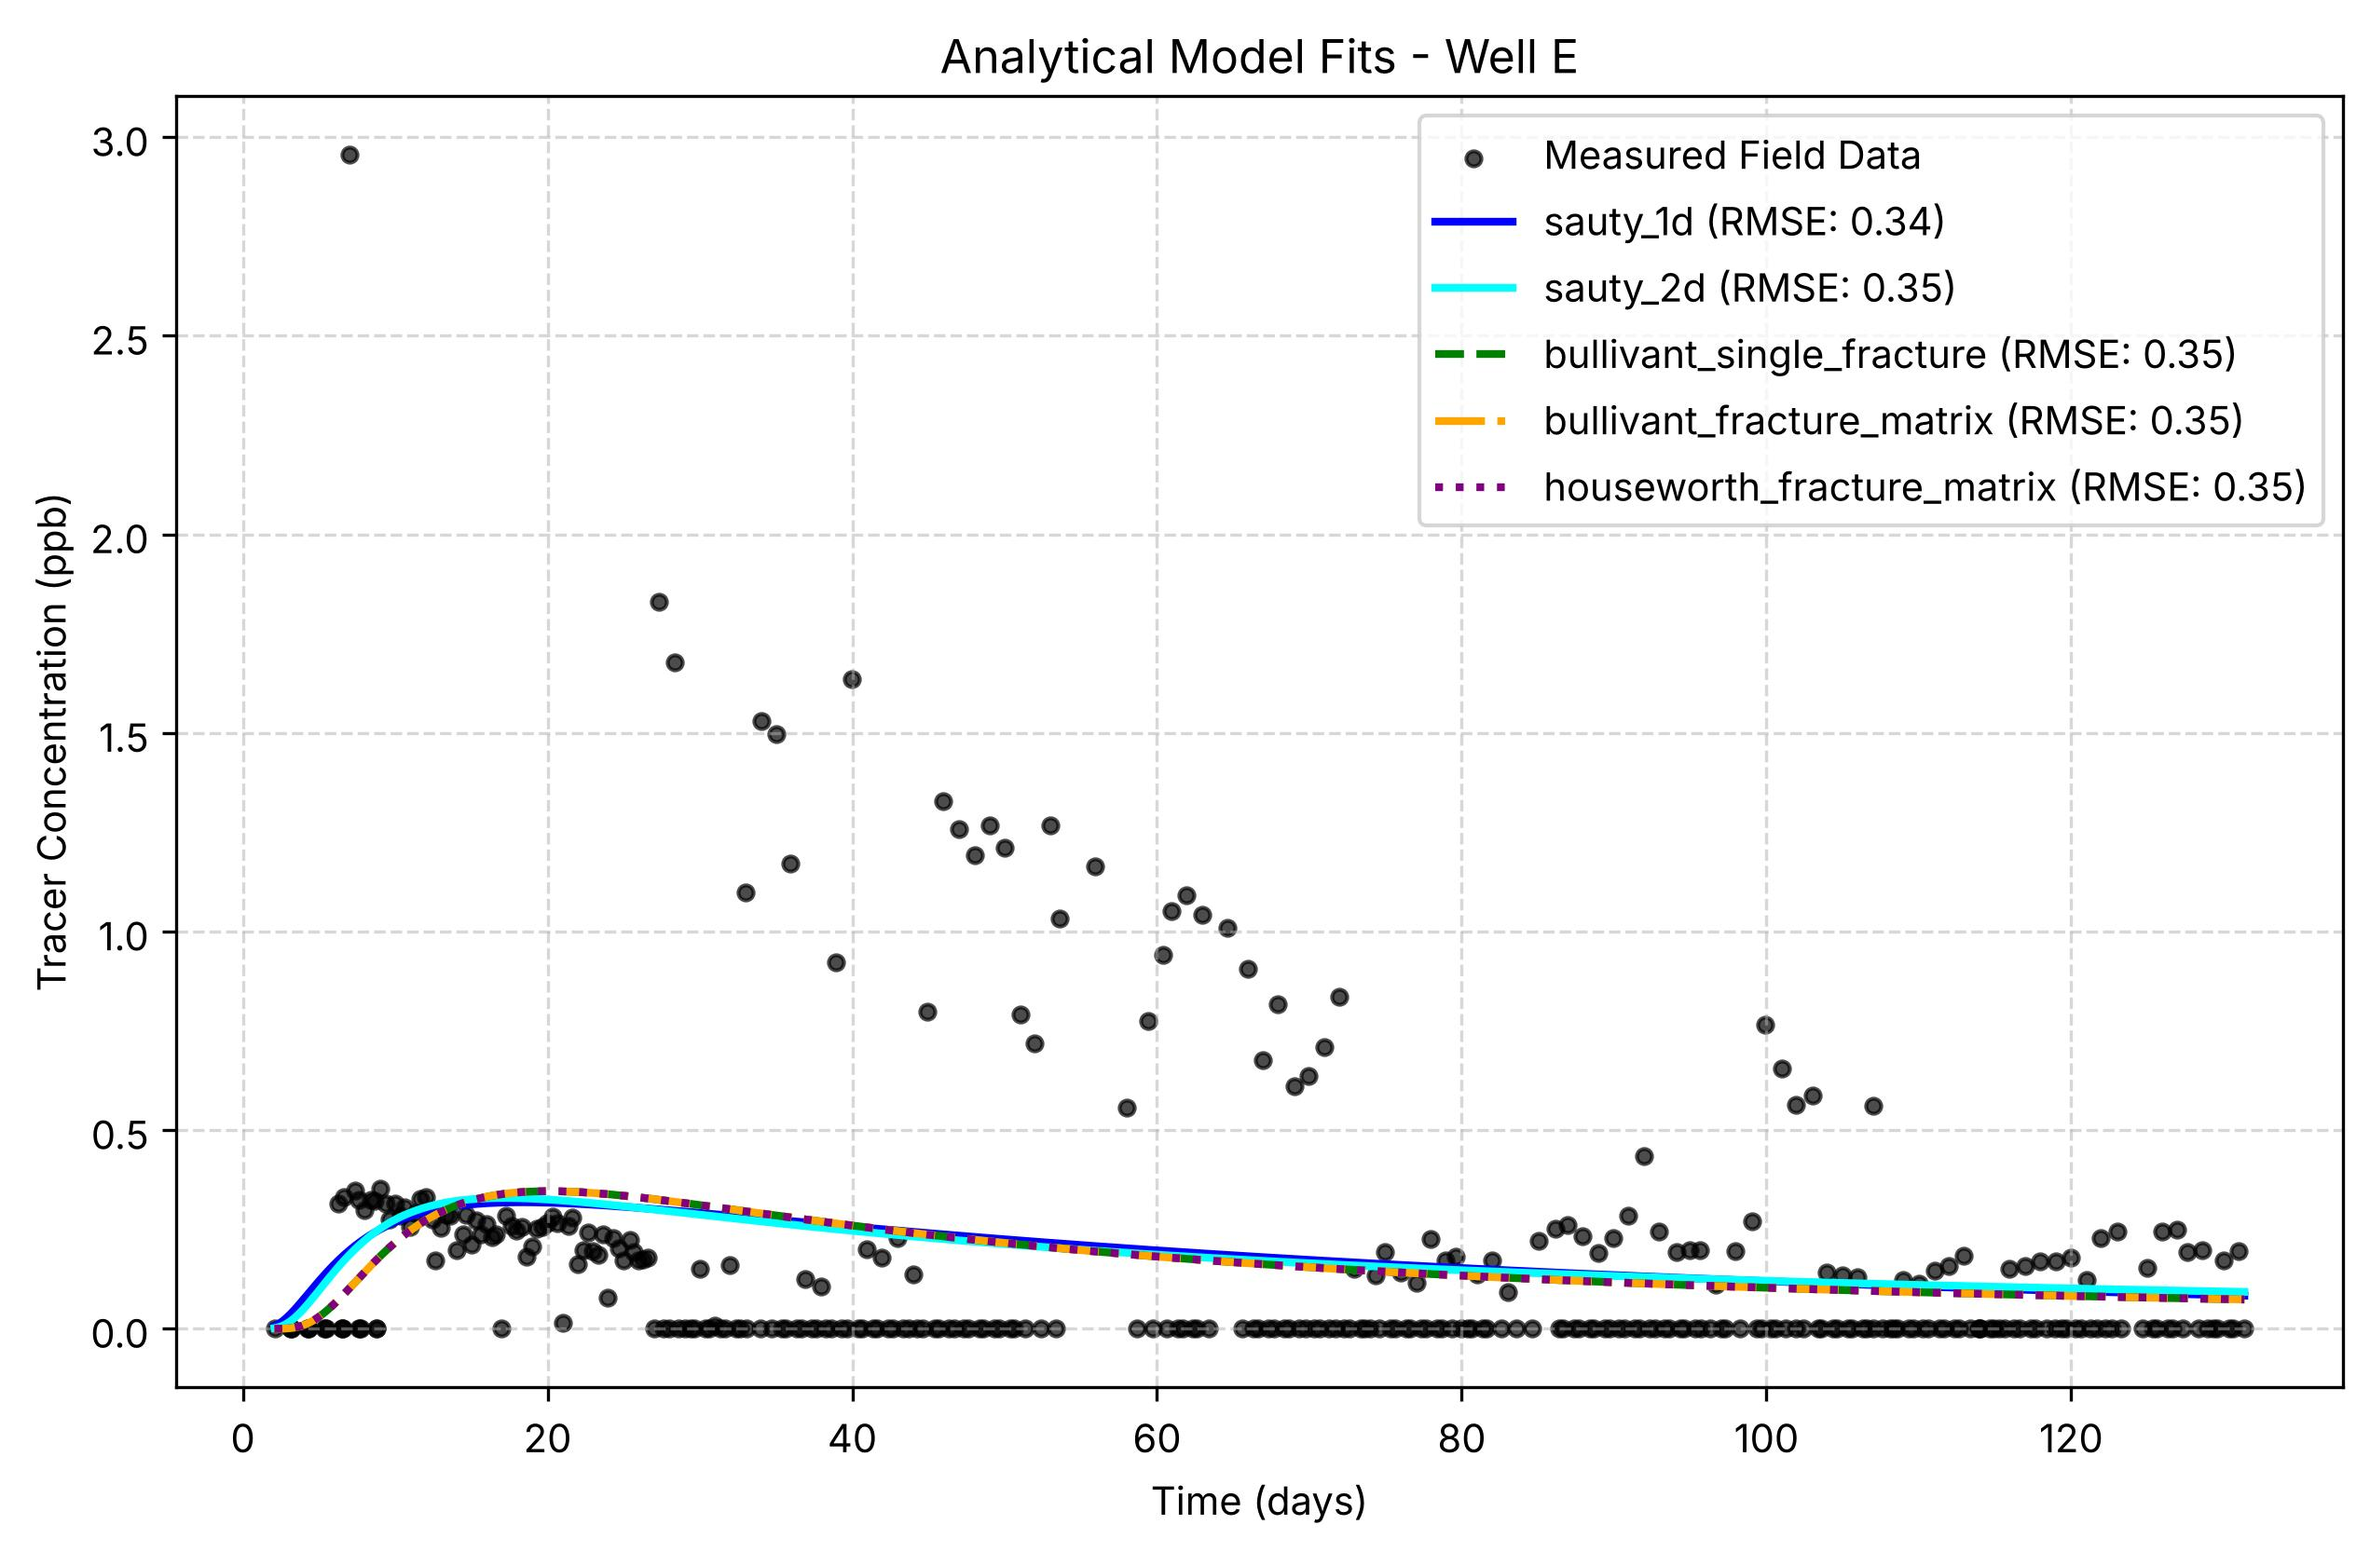
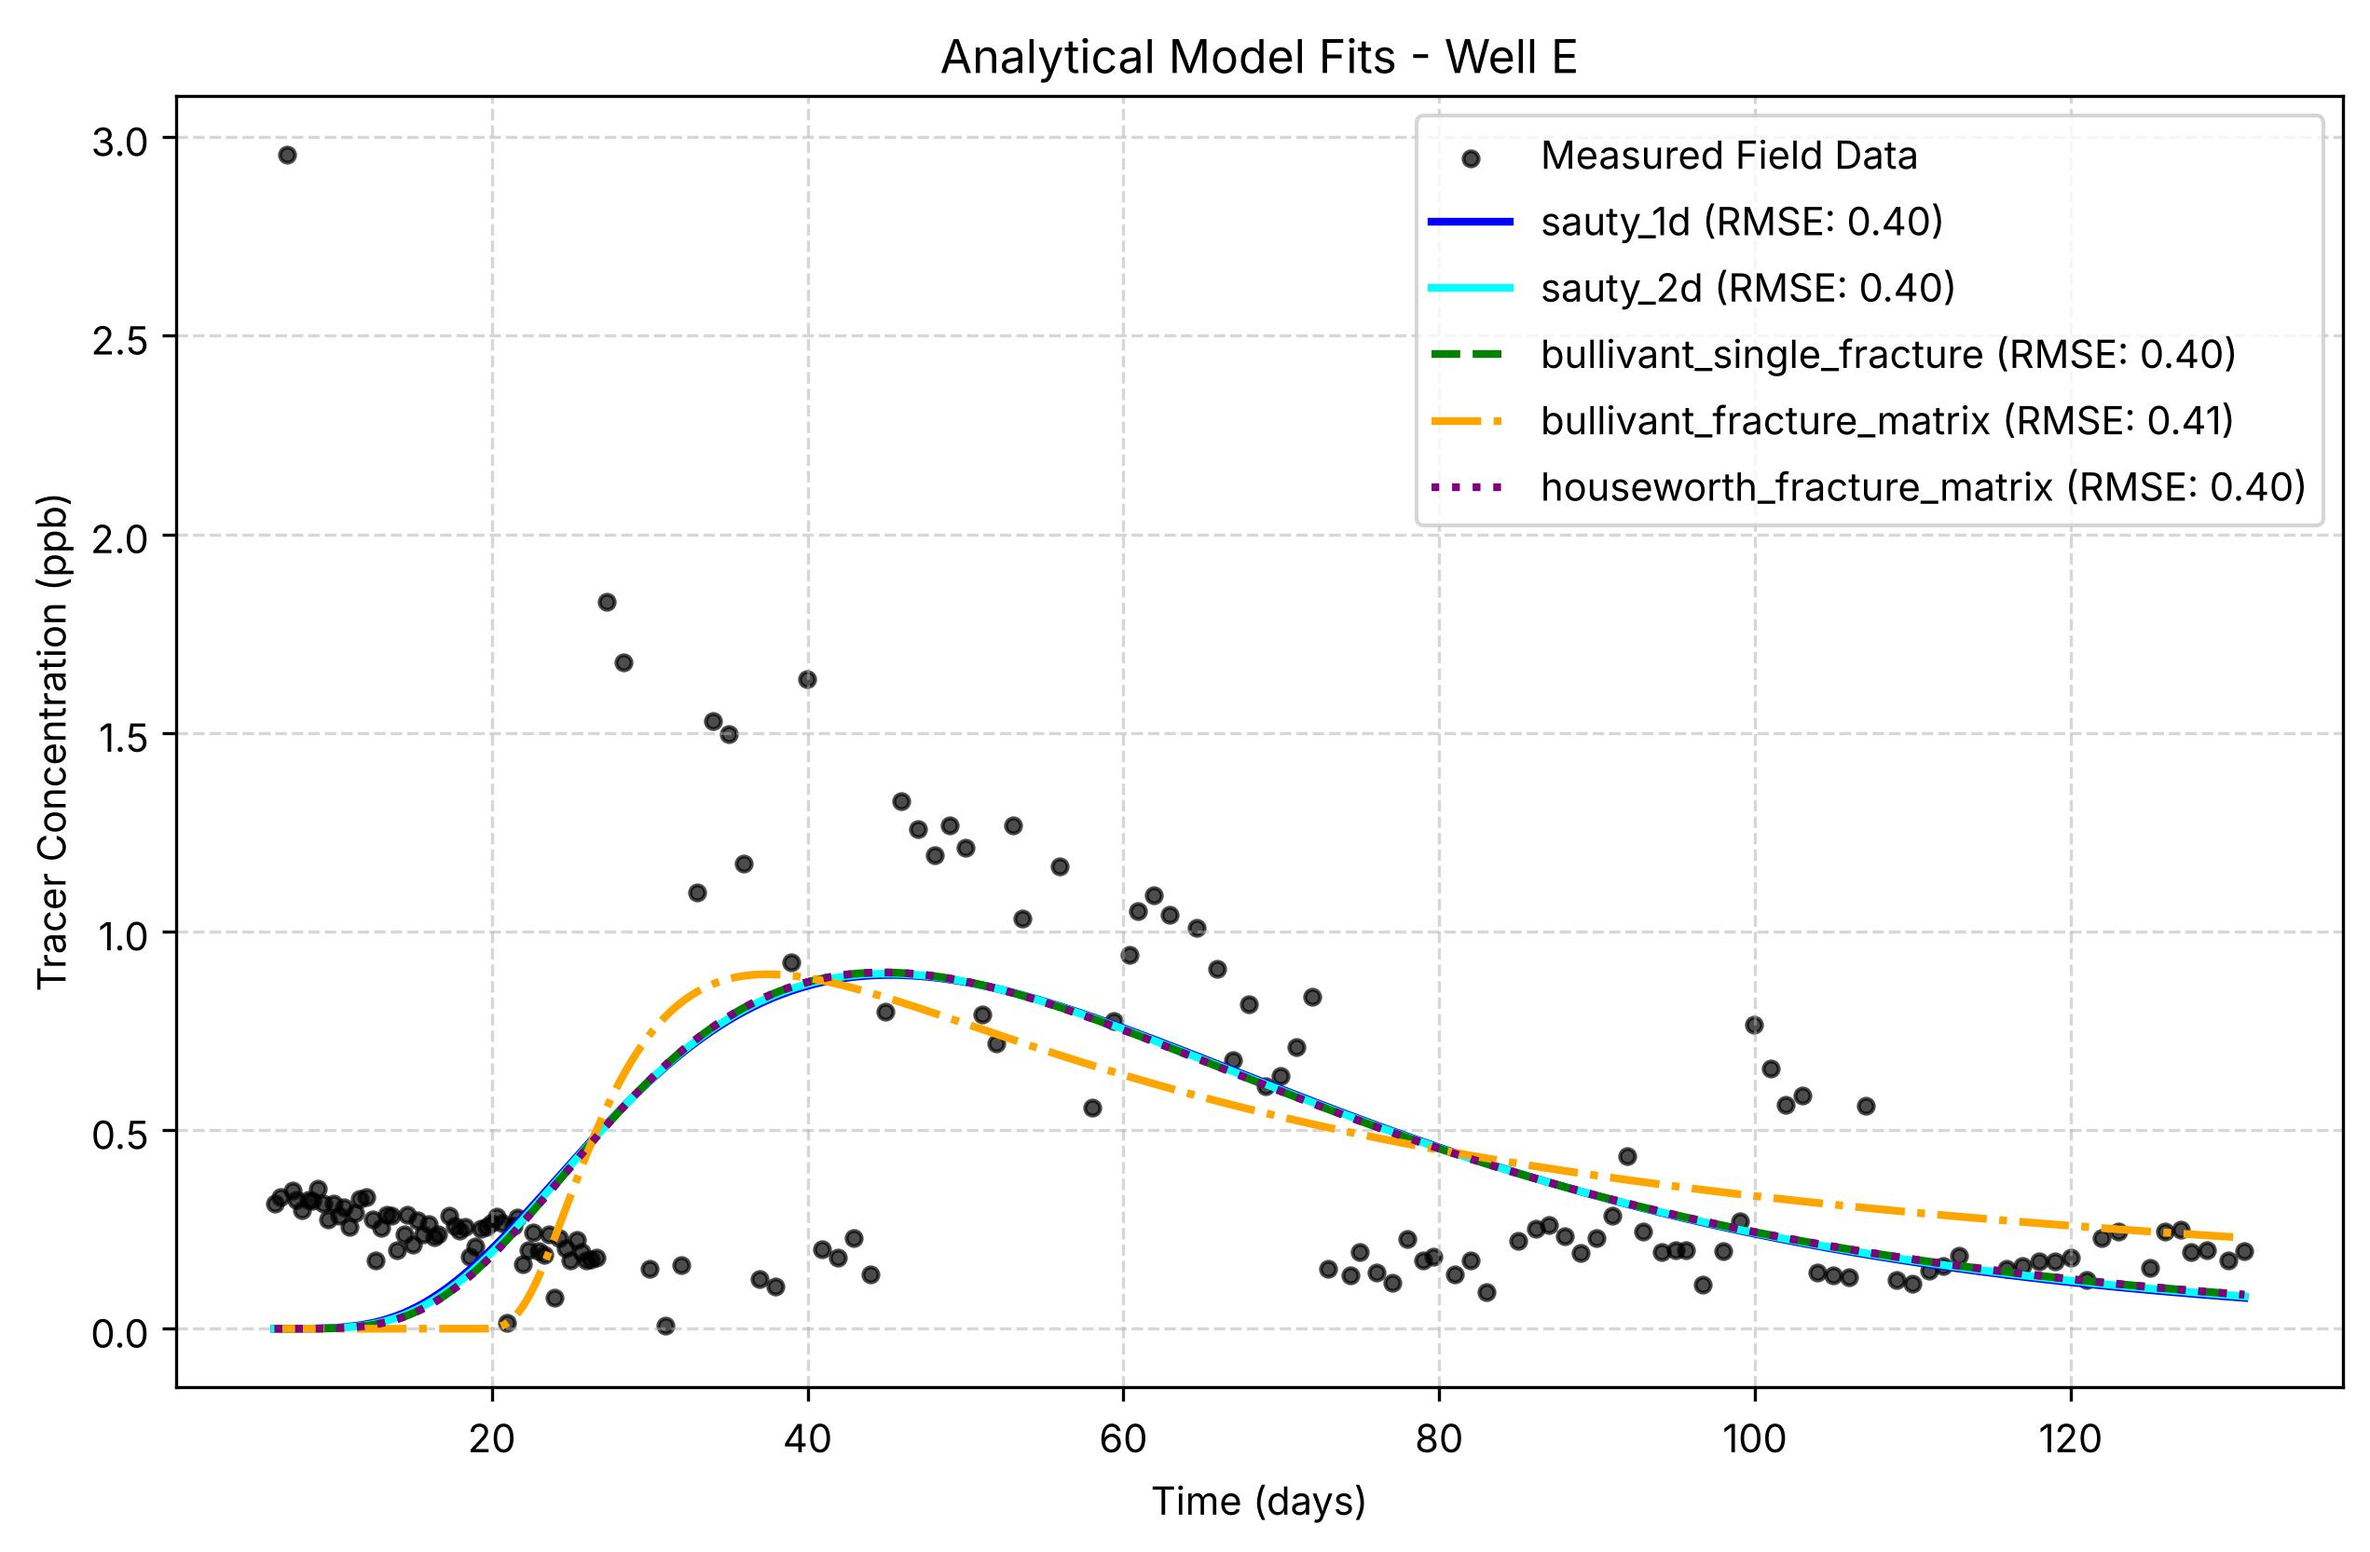
Drop zero readings at load time
Zero concentrations are an artifact of the measurement tool. Removing
them in import_tracer_data excludes them from all plots and fits.

Claude-Session: https://claude.ai/code/session_012rciNb3RLQHPSk3zMHuk9z

diff --git a/tracer_model.py b/tracer_model.py
@@ -265,10 +265,14 @@ def import_tracer_data(data_dir):
     """Return {well: (time_days, concentration_ppb)}, sorted by time.
 
     Files have a '%' title line, a 'ppb days' header, then two columns.
+    Zero readings are an artifact of the measurement tool and are dropped,
+    along with any missing (NaN) values.
     """
     tracer_data = {}
     for file in sorted(Path(data_dir).glob("*.txt")):
         C, t = np.loadtxt(file, skiprows=2, unpack=True)
+        keep = np.isfinite(C) & np.isfinite(t) & (C != 0)
+        C, t = C[keep], t[keep]
         order = np.argsort(t, kind="stable")
         tracer_data[file.stem] = (t[order], C[order])
     return tracer_data
@@ -316,9 +320,7 @@ def plot_3d_spatial_data(coordinates):
 
 def plot_tracer_data(tracer_data):
     for well, (t, C) in tracer_data.items():
-        # Skip missing (NaN) and zero concentrations
-        mask = np.isfinite(C) & (C != 0)
-        plt.scatter(t[mask], C[mask], label=f"C_{well}", s=2)
+        plt.scatter(t, C, label=f"C_{well}", s=2)
 
     plt.xlabel("Time (days)")
     plt.ylabel("Tracer Concentration (ppb)")
